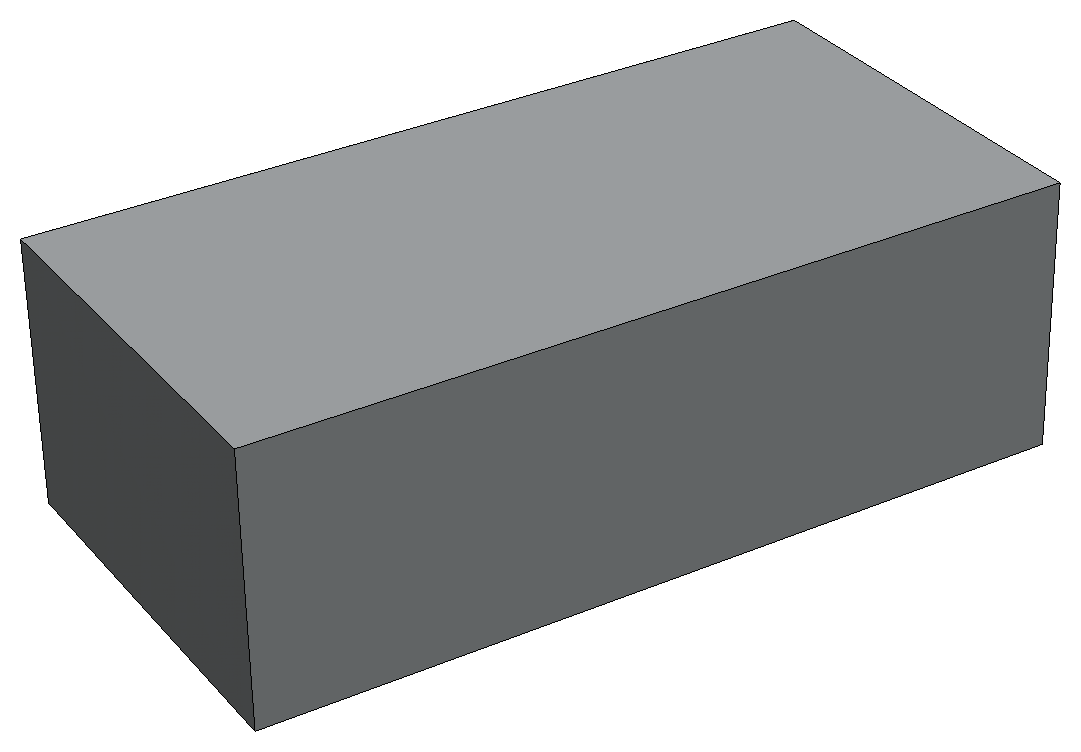
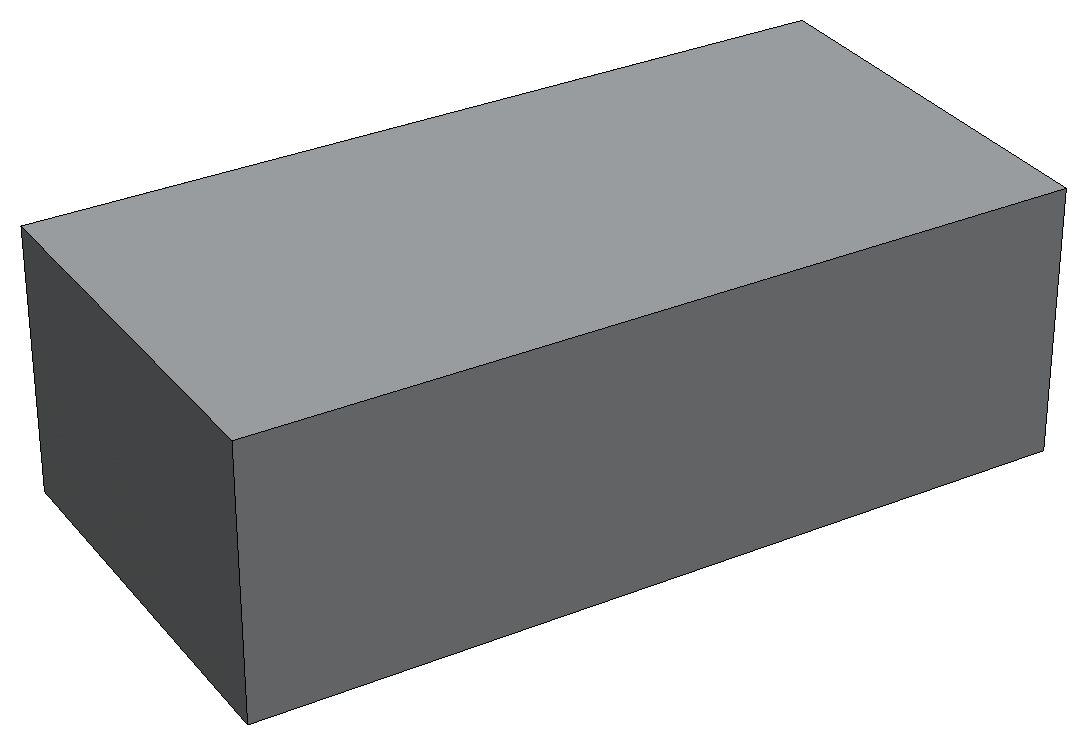
Put y exactly up in the Goldak views to remove a small roll of the camera

diff --git a/Thermal/Goldak_1984_Welding_Heat_Source/create_geometry_image.py b/Thermal/Goldak_1984_Welding_Heat_Source/create_geometry_image.py
@@ -15,5 +15,5 @@ case_dir = Path(__file__).resolve().parent
 
 solids = OCCGeometry(f"{case_dir}/geometry.step").shape.solids
 # The camera of the scenes of create_scene.py: onto the symmetry plane x = 0 and the top surface.
-image = snapshot(solids, direction=(-0.25, 0.17, -0.15), up=(0.3, 0.9, 0.2))
+image = snapshot(solids, direction=(-0.25, 0.17, -0.15), up=(0, 1, 0))
 trim(image).save(case_dir / "data" / "Geometry.png")

diff --git a/Thermal/Goldak_1984_Welding_Heat_Source/create_scene.py b/Thermal/Goldak_1984_Welding_Heat_Source/create_scene.py
@@ -53,7 +53,7 @@ for source, array, title, labels, label_format, name in [
     set_camera(
         view,
         (-0.25, 0.17, -0.15),
-        (0.3, 0.9, 0.2),
+        (0, 1, 0),
         (0.03, -0.03, 0.17),
         bounds=(0.0, 0.15, -0.1, 0.0, 0.0, 0.3),
         shift_up=0.025,
